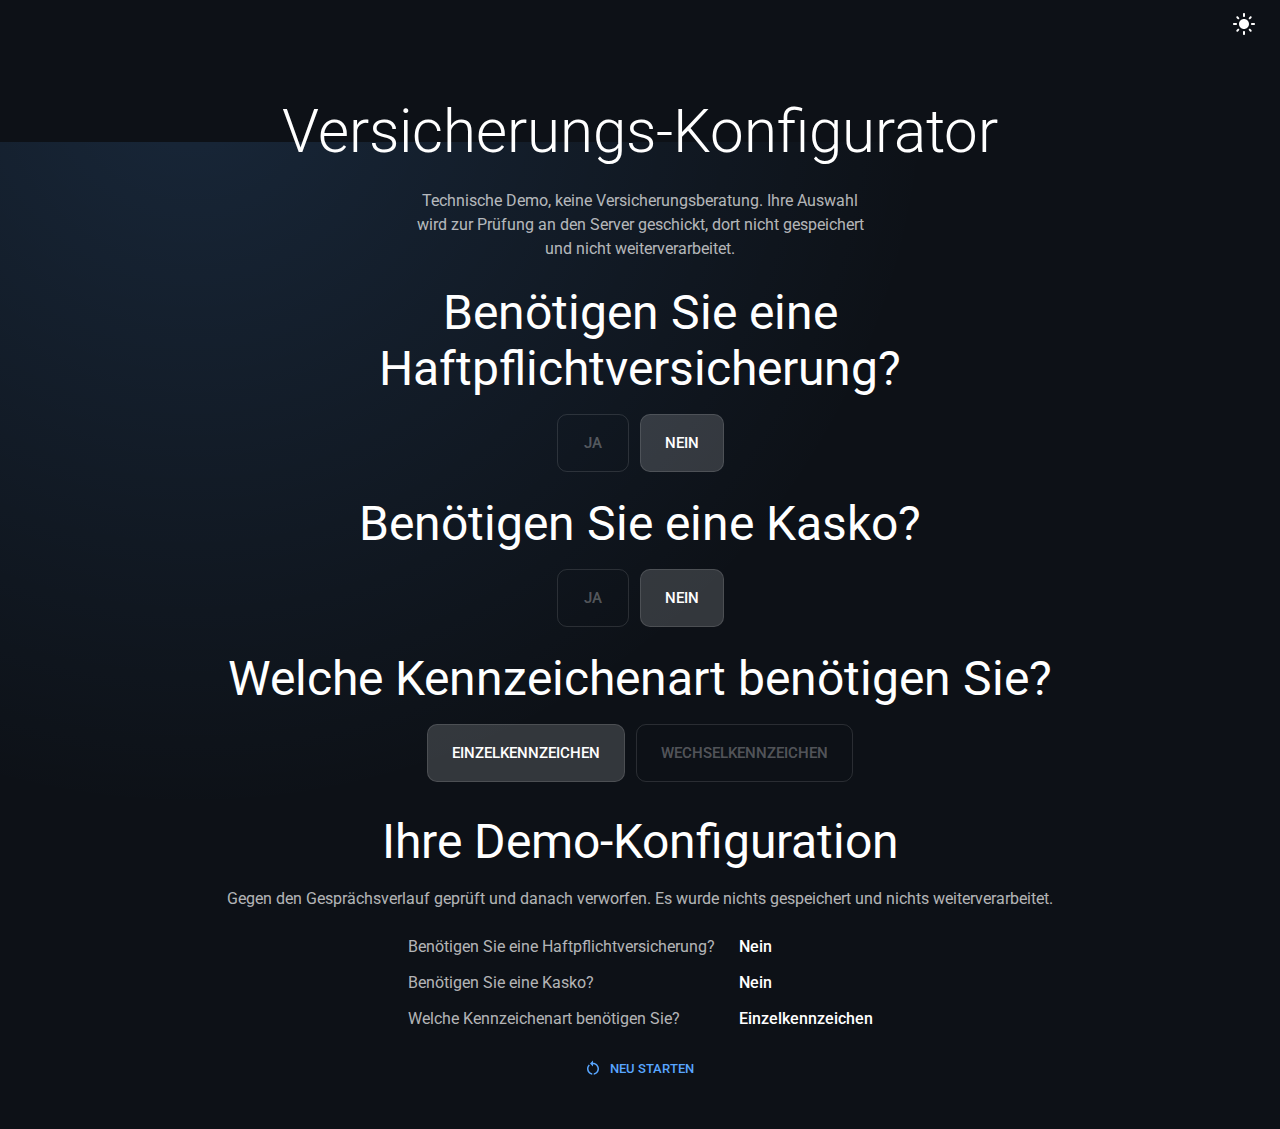
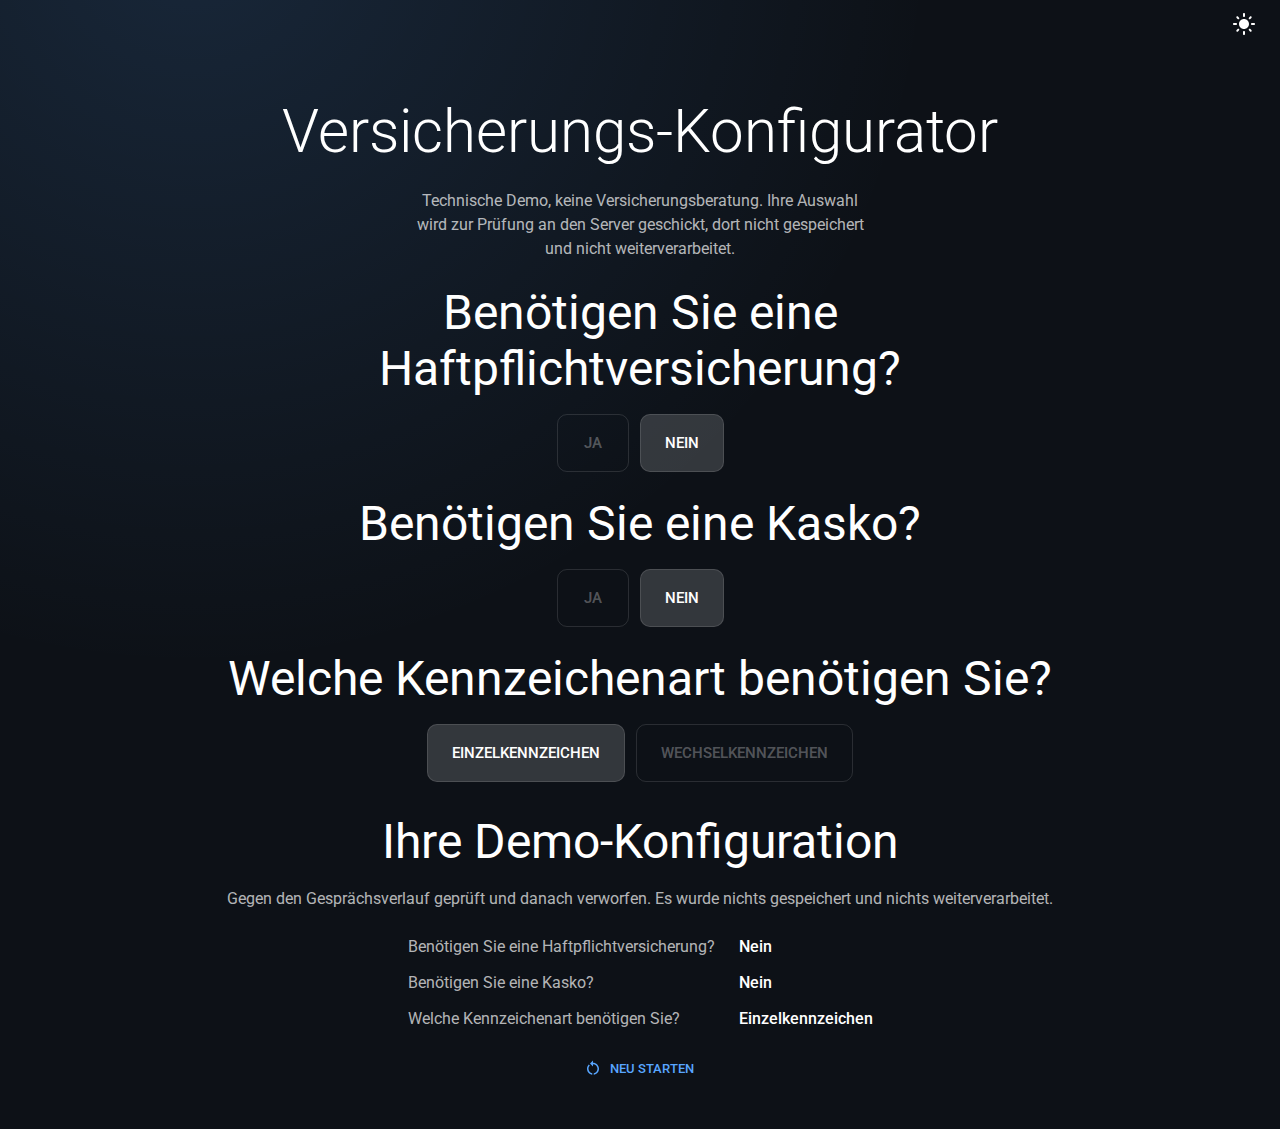
fix(visual): capture snapshots from the top of the page
The seam in the background of the tall baselines was a capture artefact, not a
rendering bug. Answering a question scrolls the next one into view, so the page
sat at scrollY 142 when the snapshot was taken. A fullPage capture expands past
the viewport but leaves a background with attachment: fixed anchored at the
current scroll offset, so the gradient landed 142px low and left a hard edge
that no browser ever paints. Only the three interactive snapshots were
affected; the ones whose page fits the viewport were always clean.

Every snapshot now scrolls to the top first, and the three affected baselines
plus the README screenshots are regenerated.

Two things worth recording, because both cost time here:

Playwright would not rewrite the baselines on --update-snapshots, since its
comparator saw no change. The difference is real but faint, 31/255 at its
strongest, and the per-pixel threshold treats that as a match. An earlier
attempt to diagnose this by swapping the background mechanism produced a
byte-identical file for the same reason, which made it look like the background
was not the cause. It was.

Tightening the threshold from 0.2 to 0.1 does not catch it either, and nothing
that would also stays clear of antialiasing noise. The tighter value is kept
because it is verified stable in the pinned container, but the config and ADR
0007 now say plainly that this suite cannot catch faint large-area changes, and
that normalising the capture is the actual defence.

Changed region(s): [[0.0, 0.0, 0.3125, 0.124]]

diff --git a/e2e/visual.spec.ts b/e2e/visual.spec.ts
@@ -1,6 +1,6 @@
 import { expect, test } from '@playwright/test';
 
-import { choose, completeFlow, QUESTIONS, toggleColorScheme } from './helpers';
+import { choose, completeFlow, QUESTIONS, scrollToTop, toggleColorScheme } from './helpers';
 
 /**
  * Visual regression. Rendering is environment-specific, so these run only on
@@ -10,6 +10,10 @@ import { choose, completeFlow, QUESTIONS, toggleColorScheme } from './helpers';
  *
  * The tolerance is the global 2% from playwright.config.ts. These used to allow
  * 5% each, which is enough to hide a whole control changing.
+ *
+ * Every snapshot goes through scrollToTop first. Answering a question scrolls
+ * the next one into view, and a scrolled page captured with fullPage renders
+ * the fixed background displaced; see the helper for why.
  */
 test.describe('visual regression @visual', () => {
   test.skip(({ browserName }) => browserName !== 'chromium', 'baselines are Chromium-only');
@@ -19,6 +23,7 @@ test.describe('visual regression @visual', () => {
   test('initial page', async ({ page }) => {
     await page.goto('/');
     await expect(page.getByRole('heading', { level: 1 })).toBeVisible();
+    await scrollToTop(page);
     await expect(page).toHaveScreenshot('initial.png', options);
   });
 
@@ -27,12 +32,14 @@ test.describe('visual regression @visual', () => {
     await choose(page, QUESTIONS.liability, 'Ja');
     await choose(page, QUESTIONS.casco, 'Ja');
     await expect(page.getByRole('heading', { name: QUESTIONS.cascoType })).toBeVisible();
+    await scrollToTop(page);
     await expect(page).toHaveScreenshot('mid-conversation.png', options);
   });
 
   test('completed conversation', async ({ page }) => {
     await page.goto('/');
     await completeFlow(page);
+    await scrollToTop(page);
     await expect(page).toHaveScreenshot('completed.png', options);
   });
 
@@ -40,6 +47,7 @@ test.describe('visual regression @visual', () => {
     await page.goto('/');
     await toggleColorScheme(page);
     await expect(page.getByRole('heading', { level: 1 })).toBeVisible();
+    await scrollToTop(page);
     await expect(page).toHaveScreenshot('light.png', options);
   });
 
@@ -48,6 +56,8 @@ test.describe('visual regression @visual', () => {
     await choose(page, QUESTIONS.liability, 'Ja');
     await page.getByRole('button', { name: 'Neu starten' }).click();
     await expect(page.getByRole('dialog')).toBeVisible();
+    // No scrollToTop here: one answer does not make the page scroll, and an
+    // open modal <dialog> blocks scrolling anyway.
     await expect(page).toHaveScreenshot('reset-dialog.png', options);
   });
 
@@ -57,6 +67,7 @@ test.describe('visual regression @visual', () => {
     await choose(page, QUESTIONS.liability, 'Ja');
     await choose(page, QUESTIONS.casco, 'Ja');
     await expect(page.getByRole('heading', { name: QUESTIONS.cascoType })).toBeVisible();
+    await scrollToTop(page);
     await expect(page).toHaveScreenshot('narrow-viewport.png', options);
   });
 });
@@ -73,6 +84,7 @@ test.describe('forced-colors @visual', () => {
     await page.emulateMedia({ forcedColors: 'active' });
     await page.goto('/');
     await expect(page.getByRole('heading', { level: 1 })).toBeVisible();
+    await scrollToTop(page);
     await expect(page).toHaveScreenshot('forced-colors-initial.png', options);
   });
 
@@ -81,6 +93,7 @@ test.describe('forced-colors @visual', () => {
     await page.goto('/');
     await choose(page, QUESTIONS.liability, 'Ja');
     await expect(page.getByRole('heading', { name: QUESTIONS.casco })).toBeVisible();
+    await scrollToTop(page);
     await expect(page).toHaveScreenshot('forced-colors-selected.png', options);
   });
 });

diff --git a/e2e/helpers.ts b/e2e/helpers.ts
@@ -34,3 +34,18 @@ export async function toggleColorScheme(page: Page) {
   // here would be flaky.
   await page.waitForTimeout(250);
 }
+
+/**
+ * Puts the page back at the top before a snapshot.
+ *
+ * A fullPage capture expands past the viewport, but a background with
+ * `attachment: fixed` stays anchored at whatever the scroll offset happens to
+ * be, so the background lands displaced by exactly that many pixels and the
+ * image shows a hard seam no browser ever paints. Answering a question scrolls
+ * the next one into view, which is why only the interactive snapshots were
+ * affected.
+ */
+export async function scrollToTop(page: Page) {
+  await page.evaluate(() => window.scrollTo(0, 0));
+  await expect.poll(() => page.evaluate(() => window.scrollY)).toBe(0);
+}

diff --git a/playwright.config.ts b/playwright.config.ts
@@ -19,7 +19,14 @@ export default defineConfig({
   timeout: 30_000,
   expect: {
     timeout: 5_000,
-    toHaveScreenshot: { maxDiffPixelRatio: 0.02 },
+    // Tighter than the 0.2 default, and verified stable in the pinned
+    // container. Note what this still cannot catch: the comparator works per
+    // pixel, so a large-area but low-amplitude change stays invisible however
+    // many pixels it touches. A displaced background gradient measured 31/255
+    // across a third of the image and no workable threshold flagged it. Such
+    // differences have to be prevented at capture time instead, which is what
+    // scrollToTop in the visual spec does.
+    toHaveScreenshot: { maxDiffPixelRatio: 0.02, threshold: 0.1 },
   },
   use: {
     baseURL,

diff --git a/docs/adr/0007-visual-tests-outside-the-ci-gate.md b/docs/adr/0007-visual-tests-outside-the-ci-gate.md
@@ -30,5 +30,15 @@ environment the baselines should be regenerated from.
   `-win32`/`-darwin` files that CI will never compare against.
 - Snapshots are held to the global 2% pixel tolerance. They previously allowed
   5% each, which is enough slack for a whole control to change unnoticed.
+- A pixel-ratio limit only catches what the per-pixel comparator considers
+  different at all, and that comparator is amplitude-based. A background
+  gradient displaced by the scroll offset measured 31/255 across a third of the
+  image and passed at every threshold that does not also flag antialiasing
+  noise. So this suite guards against changes in shape and position, not
+  against faint large-area ones; those have to be prevented at capture time.
+  The capture is normalised for exactly that reason: every snapshot scrolls the
+  page to the top first, because a `fullPage` capture leaves a background with
+  `attachment: fixed` anchored at the current scroll offset, which renders a
+  seam the browser itself never paints.
 - A real visual regression only surfaces when someone runs the visual suite;
   it is not caught automatically on every PR.
